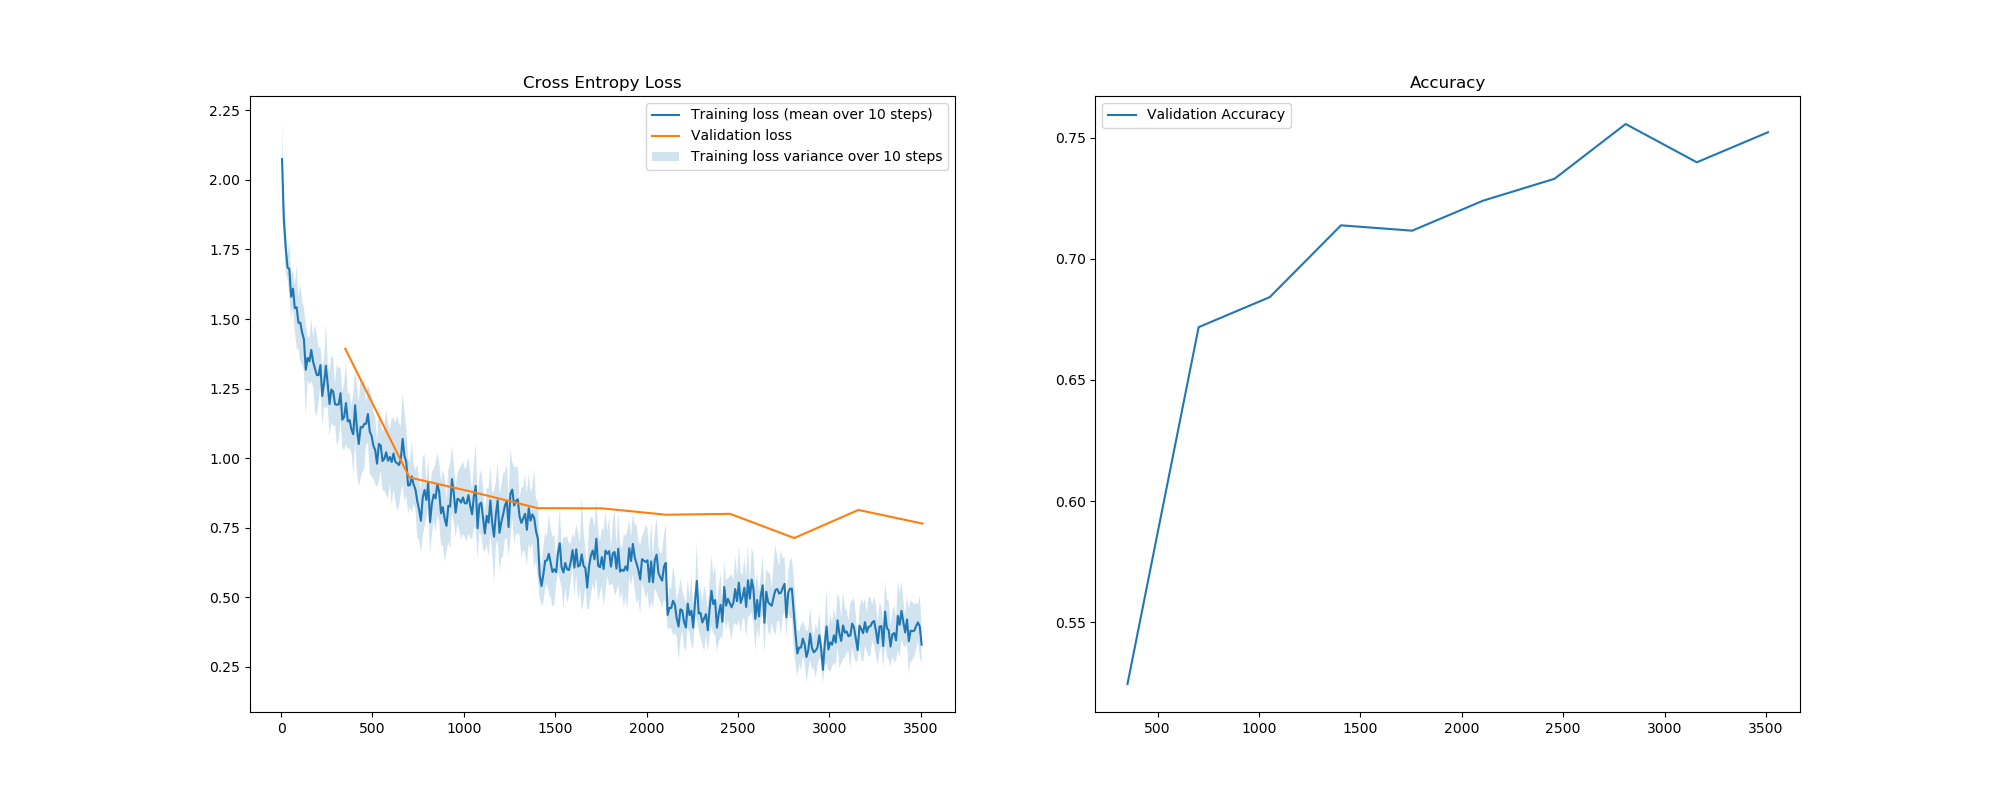
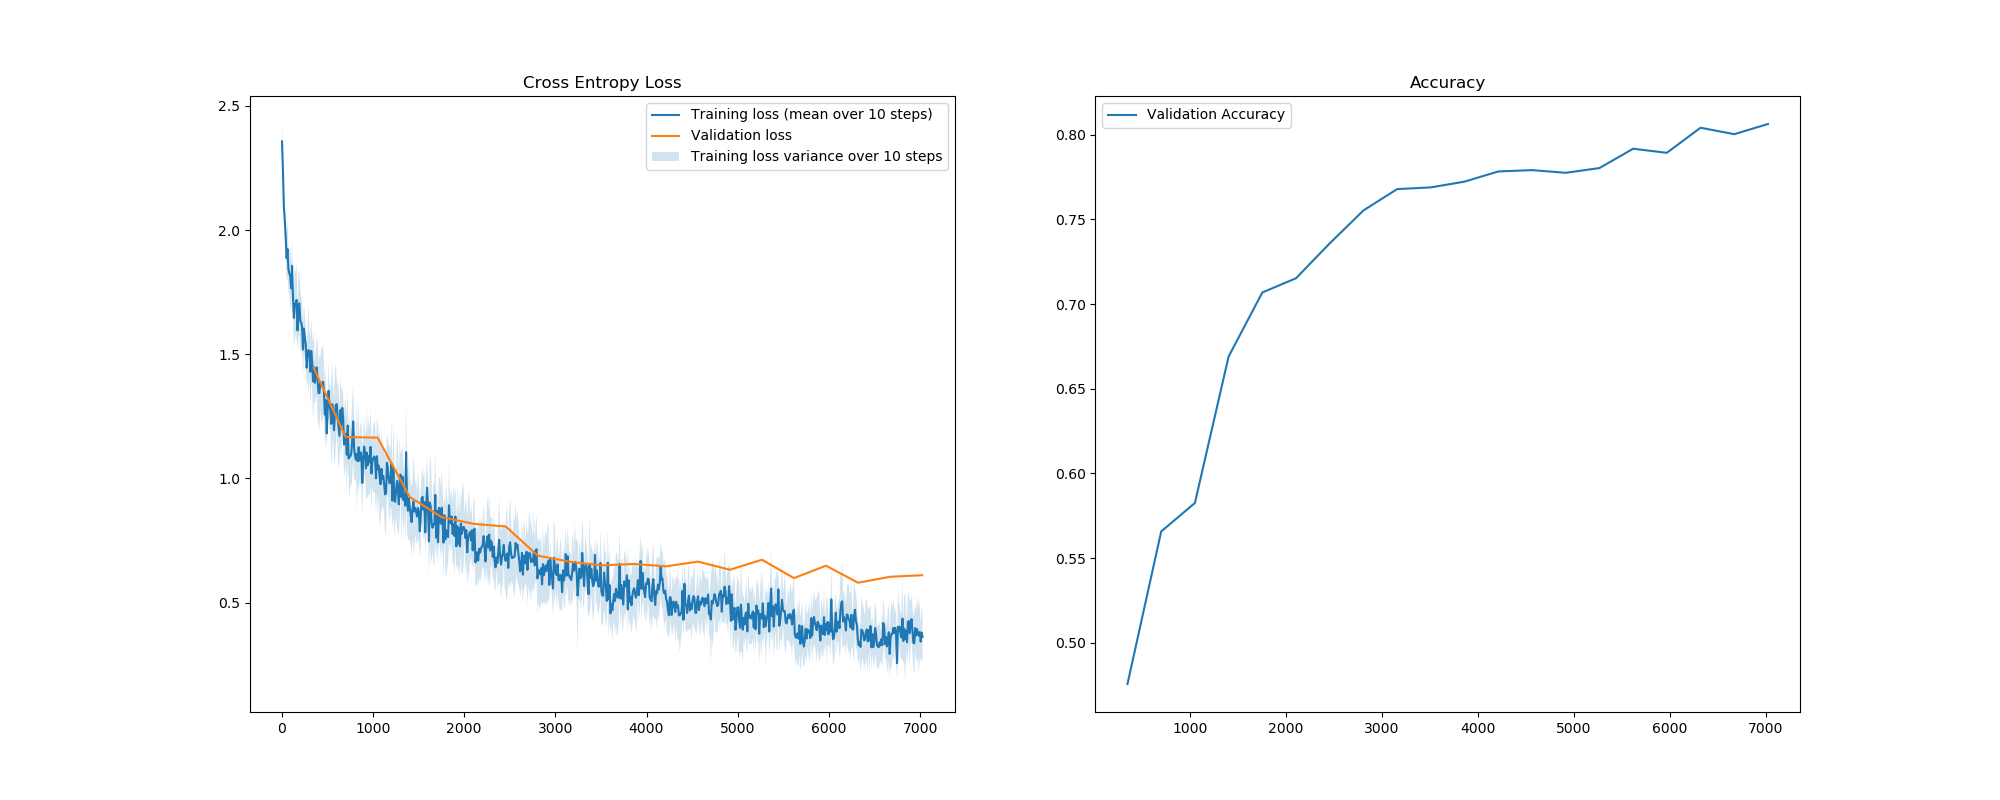
task3 completely done with plots and results

diff --git a/assignment3/task3_model_2_improved.py b/assignment3/task3_model_2_improved.py
@@ -3,7 +3,7 @@ import matplotlib.pyplot as plt
 import utils
 from torch import nn
 from dataloaders3 import load_cifar10_3
-from trainer3 import Trainer3, compute_loss_and_accuracy
+from trainer3e import Trainer3, compute_loss_and_accuracy
 
 
 class Model2(nn.Module):
@@ -24,7 +24,7 @@ class Model2(nn.Module):
 
         # Defining the neural network
         self.feature_extractor = nn.Sequential(
-            # First convolutional layer
+            # First layer
             nn.Conv2d(
                 in_channels=image_channels,
                 out_channels=32,
@@ -33,13 +33,21 @@ class Model2(nn.Module):
                 padding=2
             ),
             nn.BatchNorm2d(32),
-            nn.ReLU(inplace=True), #TODO inplace=true
-            # First max pool
+            nn.Hardswish(inplace=True), 
             nn.MaxPool2d(stride=2, kernel_size=2),
+
+            # Second layer no MaxPooling
+            nn.Conv2d(
+                in_channels=32,
+                out_channels=32,
+                kernel_size=5,
+                stride=1,
+                padding=2
+            ),
+            nn.BatchNorm2d(32),
+            nn.Hardswish(inplace=True), 
             
-
-
-            # Second convolutional layer
+            # Third layer
             nn.Conv2d(
                 in_channels=32,
                 out_channels=64,
@@ -48,23 +56,10 @@ class Model2(nn.Module):
                 padding=2
             ),
             nn.BatchNorm2d(64),
-            nn.Hardswish(inplace=True), #TODO inplace=true
-
-            # Second max pool
+            nn.Hardswish(inplace=True), 
             nn.MaxPool2d(stride=2, kernel_size=2),
-
-            # Third convolutional layer
-            nn.Conv2d(
-                in_channels=64,
-                out_channels=64,
-                kernel_size=5,
-                stride=1,
-                padding=2
-            ),
-            nn.BatchNorm2d(64),
-            nn.ReLU(inplace=True),
-            
-            # Fourth convolutional layer
+           
+            # Fourth layer
             nn.Conv2d(
                 in_channels=64,
                 out_channels=128,
@@ -73,14 +68,10 @@ class Model2(nn.Module):
                 padding=2
             ),
             nn.BatchNorm2d(128),
-            nn.Hardswish(inplace=True), #TODO inplace=true
-
-            # Third max pool
+            nn.Hardswish(inplace=True), 
             nn.MaxPool2d(stride=2, kernel_size=2),
 
-            
-
-            # Fifth convolutional layer
+            # Fifth layer
             nn.Conv2d(
                 in_channels=128,
                 out_channels=256,
@@ -89,12 +80,8 @@ class Model2(nn.Module):
                 padding=2
             ),
             nn.BatchNorm2d(256),
-            nn.Hardswish(inplace=True), #TODO inplace=true
-
-            # Fourth max pool
+            nn.Hardswish(inplace=True), 
             nn.MaxPool2d(stride=2, kernel_size=2),
-
-
         )
         # The output of feature_extractor will be [batch_size, num_filters, 16, 16]
         self.num_output_features = 32*32*32
@@ -104,10 +91,19 @@ class Model2(nn.Module):
         # There is no need for softmax activation function, as this is
         # included with nn.CrossEntropyLoss
         self.classifier = nn.Sequential(
+            # First FC layer
             nn.Linear(2*2*256, 64),
             nn.BatchNorm1d(64),
-            nn.ReLU(),
-            nn.Linear(64, num_classes),
+            nn.SiLU(inplace=True),
+            
+            # Second FC layer
+            nn.Linear(64, 32),
+            nn.BatchNorm1d(32),
+            nn.SiLU(inplace=True),
+
+            # Third FC layer
+            nn.Linear(32, num_classes),
+            
         )
 
     def forward(self, x):

diff --git a/assignment3/dataloaders3.py b/assignment3/dataloaders3.py
@@ -21,14 +21,8 @@ def load_cifar10_3(batch_size: int, validation_fraction: float = 0.1
     # Note that transform train will apply the same transform for
     # validation!
 
-    # Transform training data with and without aumentation
-    # Transform without data augmentation
-    transform_train = transforms.Compose([
-        transforms.ToTensor(),
-        transforms.Normalize(mean, std),
-    ])
     # Transform with data augmentation
-    transform_train_augmentation = transforms.Compose([
+    transform_train = transforms.Compose([
         transforms.ToTensor(),
         transforms.Normalize(mean, std),
         transforms.RandomHorizontalFlip(p=0.4),
@@ -41,14 +35,7 @@ def load_cifar10_3(batch_size: int, validation_fraction: float = 0.1
                                   train=True,
                                   download=True,
                                   transform=transform_train)
-
-    data_train_augmentation = datasets.CIFAR10(get_data_dir(),
-                                  train=True,
-                                  download=True,
-                                  transform=transform_train_augmentation)
-    # Set the two data train sets (with and without augmentation) together to get more train data
-    data_train = torch.utils.data.ConcatDataset((data_train,data_train_augmentation))
-
+                                  
     data_test = datasets.CIFAR10(get_data_dir(),
                                  train=False,
                                  download=True,
